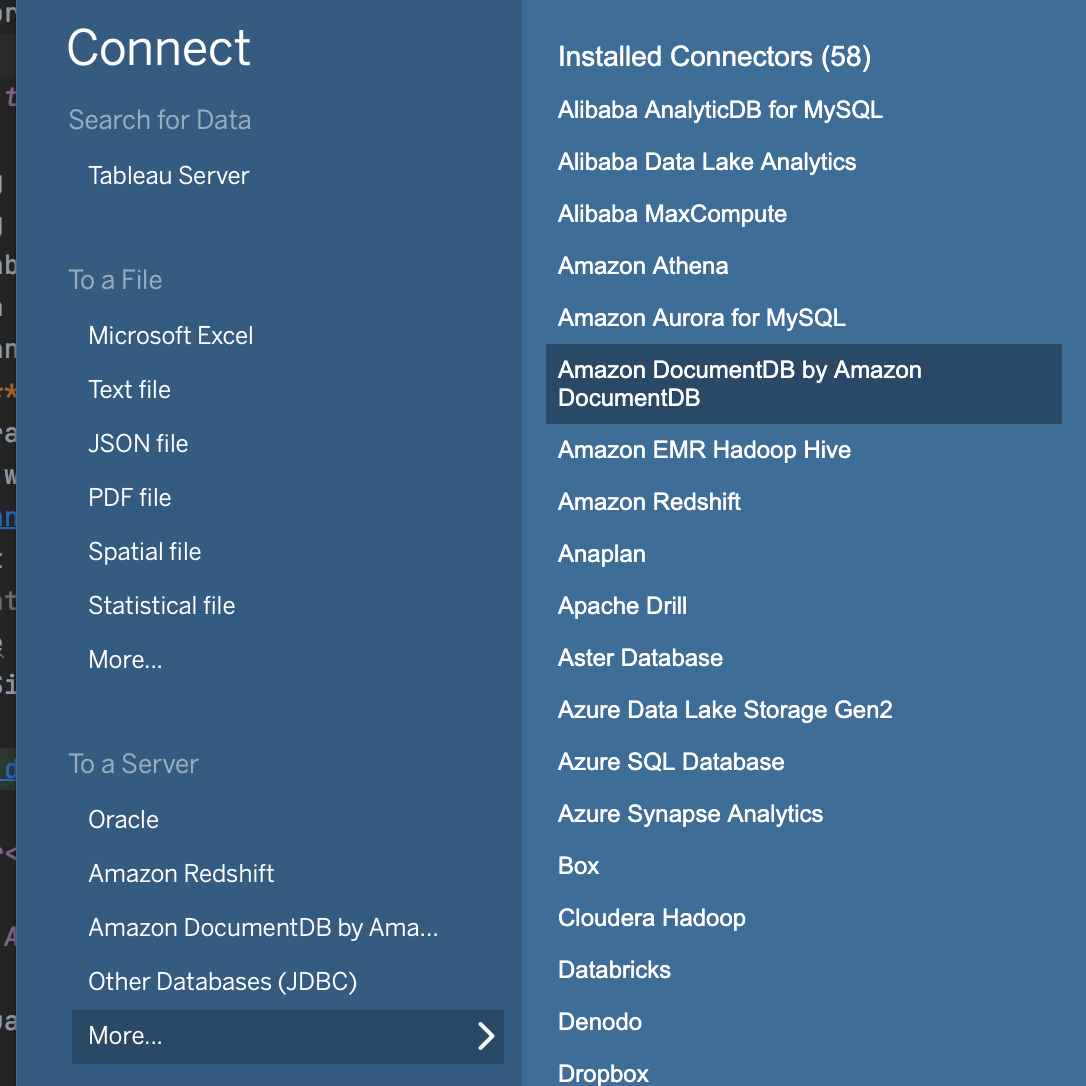
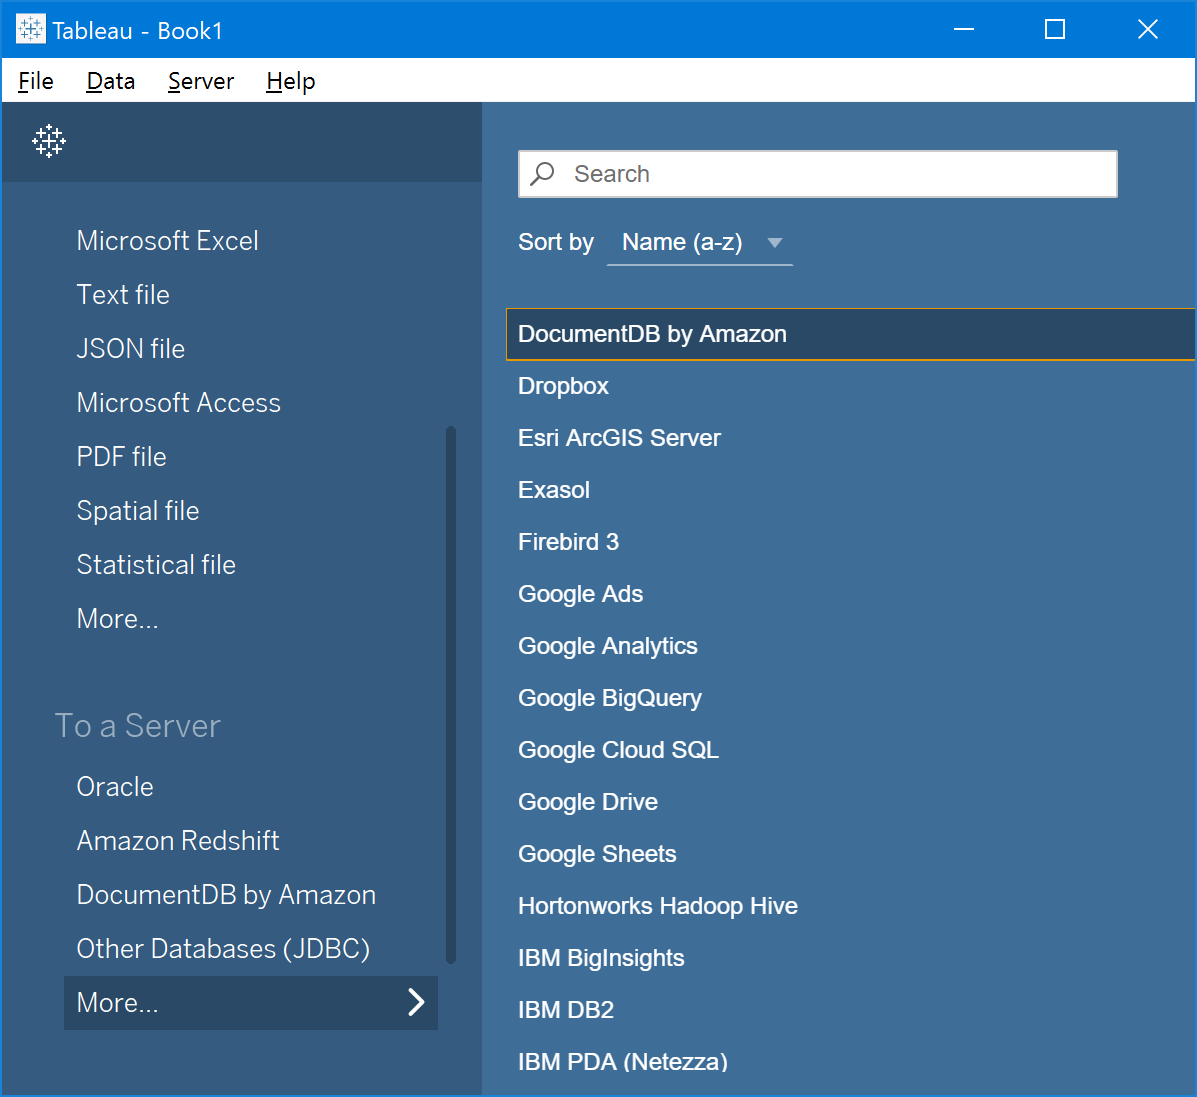
[AD-272] Change images for "DocumentDB by Amazon". Removed directions for unsigned TACO file. https://bitquill.atlassian.net/browse/AD-272

diff --git a/src/markdown/setup/bi-tool-setup.md b/src/markdown/setup/bi-tool-setup.md
@@ -23,7 +23,7 @@ Outlined here are the setup for [Tableau Desktop](https://www.tableau.com/produc
     - **_Mac_**: `~/Library/Tableau/Drivers`
     - **_Linux_**: `/opt/tableau/tableau_driver/jdbc`
 
-1. [Download]() the DocumentDB Tableau connector (a TACO file) and copy it to your `My Tableau Repository/Connectors`
+1. [Download](setup.md#download-the-documentdb-jdbc-driver) the DocumentDB Tableau connector (a TACO file) and copy it to your `My Tableau Repository/Connectors`
    directory.
     - **_Windows_**: `C:\Users\[user]\Documents\My Tableau Repository\Connectors`
     - **_Mac_**: `/Users/[user]/Documents/My Tableau Repository/Connectors`
@@ -34,16 +34,7 @@ Outlined here are the setup for [Tableau Desktop](https://www.tableau.com/produc
 
 1. If connecting from outside the DocumentDB cluster's VPC, ensure you have [setup an SSH tunnel](setup.md#using-an-ssh-tunnel-to-connect-to-amazon-documentdb).
 1. Launch the Tableau Desktop application.
-    - If using a **signed** Tableau Connector, launch Tableau like a typical application on your machine.
-    - If using an **unsigned** Tableau connector, Tableau must be launched from the command line with the flag
-      `-DDisableVerifyConnectorPluginSignature=true`.
-
-      Assuming default installation of Tableau Desktop:
-        - On **Windows**, use `tableau.exe -DDisableVerifyConnectorPluginSignature=true`.
-        - On **Mac**, use `/Applications/Tableau\ Desktop\ [version].app/Contents/MacOS/Tableau -DDisableVerifyConnectorPluginSignature=true`.
-        - For more information, consult the [Tableau documentation](https://tableau.github.io/connector-plugin-sdk/docs/run-taco).
-
-1. Navigate to **Connect > To A Server > More**. **Amazon DocumentDB by Amazon DocumentDB** should be listed
+1. Navigate to **Connect > To A Server > More**. **DocumentDB by Amazon** should be listed
    under **Installed Connectors**. Select it.
 
 ![Select a Connector](tableau-connector.png)

diff --git a/src/markdown/docs/docs.md b/src/markdown/docs/docs.md
@@ -237,7 +237,7 @@ Outlined here are the setup for [Tableau Desktop](https://www.tableau.com/produc
     - **_Mac_**: `~/Library/Tableau/Drivers`
     - **_Linux_**: `/opt/tableau/tableau_driver/jdbc`
 
-1. [Download]() the DocumentDB Tableau connector (a TACO file) and copy it to your `My Tableau Repository/Connectors`
+1. [Download](#download-the-documentdb-jdbc-driver) the DocumentDB Tableau connector (a TACO file) and copy it to your `My Tableau Repository/Connectors`
    directory.
     - **_Windows_**: `C:\Users\[user]\Documents\My Tableau Repository\Connectors`
     - **_Mac_**: `/Users/[user]/Documents/My Tableau Repository/Connectors`
@@ -248,16 +248,7 @@ Outlined here are the setup for [Tableau Desktop](https://www.tableau.com/produc
 
 1. If connecting from outside the DocumentDB cluster's VPC, ensure you have [setup an SSH tunnel](#using-an-ssh-tunnel-to-connect-to-amazon-documentdb).
 1. Launch the Tableau Desktop application.
-    - If using a **signed** Tableau Connector, launch Tableau like a typical application on your machine.
-    - If using an **unsigned** Tableau connector, Tableau must be launched from the command line with the flag
-      `-DDisableVerifyConnectorPluginSignature=true`.
-
-      Assuming default installation of Tableau Desktop:
-        - On **Windows**, use `tableau.exe -DDisableVerifyConnectorPluginSignature=true`.
-        - On **Mac**, use `/Applications/Tableau\ Desktop\ [version].app/Contents/MacOS/Tableau -DDisableVerifyConnectorPluginSignature=true`.
-        - For more information, consult the [Tableau documentation](https://tableau.github.io/connector-plugin-sdk/docs/run-taco).
-
-1. Navigate to **Connect > To A Server > More**. **Amazon DocumentDB by Amazon DocumentDB** should be listed
+1. Navigate to **Connect > To A Server > More**. **DocumentDB by Amazon** should be listed
    under **Installed Connectors**. Select it.
 
 ![Select a Connector](../setup/tableau-connector.png)
